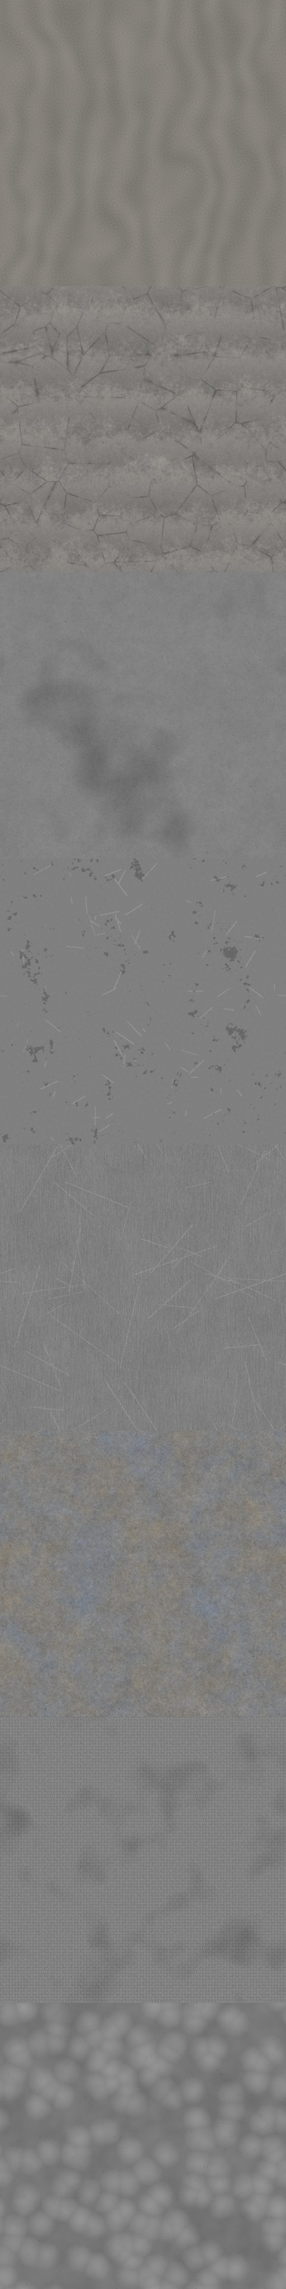
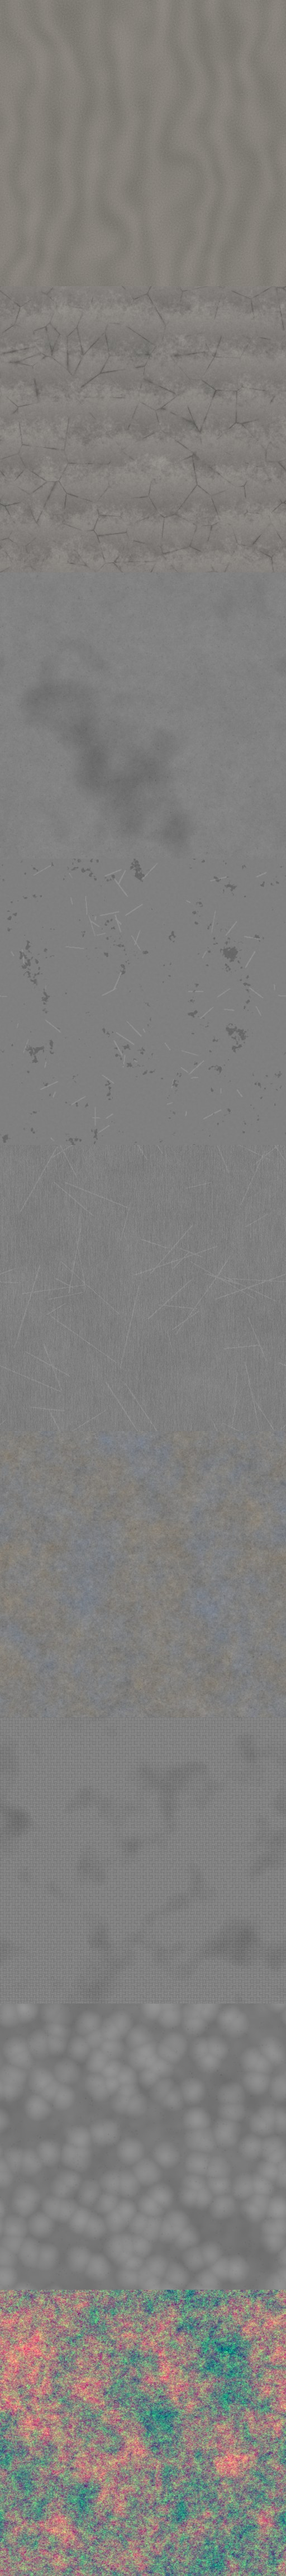
K73 v45: tekstuuri kvaliteedi valik ja uus taevas
- Seaded -> Texture quality: Auto / Low / Medium / High (materjalitekstuurid, normaalkaardid, tegelaste atlas 1024/2048/4096)
- taevas: pilvetekstuur (kiht 8) taeva tasandil, tuul, päikesepoolne valgustus ja isevari, hõbedane serv
- ümarad pehmed tähed

Claude-Session: https://claude.ai/code/session_01Bz4Tq66mTgXAon3ffbgQPE

Changed region(s): [[0.0, 0.8438, 1.0, 1.0], [0.0312, 0.7812, 0.0938, 0.8125], [0.6562, 0.1562, 0.6875, 0.1875]]

diff --git a/js/02_gfx.js b/js/02_gfx.js
@@ -192,12 +192,14 @@ void main(){
       vec3 w = pow(abs(nb), vec3(4.0)); w /= (w.x + w.y + w.z);
       vec3 al = texture(uMatA, vec3(p.zy, L)).rgb*w.x + texture(uMatA, vec3(p.xz, L)).rgb*w.y + texture(uMatA, vec3(p.xy, L)).rgb*w.z;
       base *= mix(vec3(1.0), al*2.0, kA*mf);
+      if (uMatOn > 1.5) {
       vec3 tX = texture(uMatN, vec3(p.zy, L)).xyz*2.0 - 1.0, tY = texture(uMatN, vec3(p.xz, L)).xyz*2.0 - 1.0, tZ = texture(uMatN, vec3(p.xy, L)).xyz*2.0 - 1.0;
       tX = vec3(tX.xy + nb.zy, abs(tX.z)*nb.x); tY = vec3(tY.xy + nb.xz, abs(tY.z)*nb.y); tZ = vec3(tZ.xy + nb.xy, abs(tZ.z)*nb.z);
       vec3 np = normalize(tX.zyx*w.x + tY.xzy*w.y + tZ.xyz*w.z);
       if (!wrl) np = rotTo(nb, normalize(vN), np);
       if (!gl_FrontFacing) np = -np;
       N = normalize(mix(N, np, kN*mf));
+      }
     }
   }
 #endif
@@ -360,6 +362,7 @@ precision highp float;
 in vec2 vP; out vec4 oC;
 uniform mat4 uInvVP; uniform vec3 uCam; uniform vec3 uSunDir; uniform vec3 uSunCol; uniform vec3 uZen; uniform vec3 uHor; uniform vec3 uFogCol;
 uniform float uNight; uniform float uExposure; uniform float uTime; uniform vec3 uPlDir;
+uniform mediump sampler2DArray uMatA; uniform float uCloudOn;
 vec3 tm(vec3 x){ x = max(x, 0.0); return clamp((x*(2.51*x+0.03))/(x*(2.43*x+0.59)+0.14), 0.0, 1.0); }
 float h31(vec3 p){ p=fract(p*0.3183099+0.1); p*=17.0; return fract(p.x*p.y*p.z*(p.x+p.y+p.z)); }
 float h21(vec2 p){ p=fract(p*vec2(123.34,456.21)); p+=dot(p,p+45.32); return fract(p.x*p.y); }
@@ -370,8 +373,9 @@ void main(){
   float h = d.y;
   vec3 col = mix(uHor, uZen, pow(clamp(h,0.0,1.0),0.55));
   if(uNight>0.01 && h>0.0){
-    vec3 g = floor(d*260.0); float s = h31(g);
-    float st = step(0.9972, s)*(0.55+0.45*sin(uTime*1.7+s*300.0));
+    vec3 q = d*260.0, g = floor(q); float s = h31(g);
+    vec3 sp = g + 0.5 + (vec3(h31(g+1.3), h31(g+2.7), h31(g+4.1)) - 0.5)*0.5;   // täht raku sees, ümar ja pehme
+    float st = step(0.9972, s)*smoothstep(0.6, 0.05, length(q - sp))*(0.6+0.4*sin(uTime*1.7+s*300.0))*1.6;
     vec3 sc = mix(vec3(0.75,0.82,1.0), vec3(1.0,0.85,0.7), h31(g+7.0));
     col += sc*st*uNight*smoothstep(0.0,0.2,h);
     vec3 g2 = floor(d*520.0); float s2 = h31(g2+3.0);
@@ -405,14 +409,30 @@ void main(){
     col = mix(col, mix(pcol, col, haze), rim);
   }
   float sd = max(dot(d,uSunDir),0.0);
-  // kõrged kiudpilved, mis triivivad aeglaselt; päikese poolt valgustatud servad
+  // pilvekiht: taeva tasandile projitseeritud pilvetekstuur (kiht 8), tuul, valgustus päikese poolt, isevari
   if(h>0.0){
-    vec2 cp = d.xz/(h+0.12)*0.55 + vec2(uTime*0.0035, uTime*0.0012);
-    float c = cn(cp*vec2(0.9,2.6)*1.4)*0.65 + cn(cp*vec2(1.8,5.0)*1.4 + 3.0)*0.35;
-    c = smoothstep(0.5, 0.82, c)*smoothstep(0.0, 0.18, h)*(1.0 - smoothstep(0.55, 0.95, h));
-    vec3 cc = mix(uHor*1.05, uZen*0.6 + uSunCol*0.55, 0.45) + uSunCol*pow(sd, 5.0)*0.9;
-    cc = mix(cc, vec3(0.035,0.03,0.045), uNight*0.85);
-    col = mix(col, cc, c*0.55);
+    vec2 cp = d.xz/(h+0.06)*0.11 + vec2(uTime*0.0016, uTime*0.0007);
+    float fade = smoothstep(0.0, 0.16, h);
+    float dens;
+    if (uCloudOn > 0.5) {
+      vec4 t1 = texture(uMatA, vec3(cp, 8.0));
+      vec4 t2 = texture(uMatA, vec3(cp*3.7 + vec2(0.31, 0.77) + vec2(uTime*0.004, 0.0), 8.0));
+      dens = t1.r*0.72 + t2.g*0.28;
+      vec2 toSun = normalize(uSunDir.xz + vec2(1e-4))*0.025;
+      float dS = texture(uMatA, vec3(cp + toSun, 8.0)).r*0.72 + t2.g*0.28;
+      float cov = 0.5;
+      float c = smoothstep(cov, cov + 0.3, dens)*fade;
+      float shade = clamp(1.0 - (dS - dens)*4.0, 0.35, 1.25);           // päikese poolt valgem, vastaskülg tumedam
+      vec3 lit = uSunCol*0.6*shade + uZen*0.55 + uHor*0.3;
+      lit += uSunCol*pow(sd, 6.0)*(1.0 - smoothstep(cov, cov + 0.35, dens))*1.4;   // hõbedane serv päikese ees
+      lit = mix(lit, vec3(0.03, 0.026, 0.04), uNight*0.88);
+      col = mix(col, lit, c*0.85);
+    } else {
+      dens = cn(cp*6.0)*0.65 + cn(cp*14.0 + 3.0)*0.35;
+      float c = smoothstep(0.55, 0.85, dens)*fade;
+      vec3 lit = mix(uSunCol*0.6 + uZen*0.55, vec3(0.03, 0.026, 0.04), uNight*0.88);
+      col = mix(col, lit, c*0.7);
+    }
   }
   col += uSunCol*(smoothstep(0.9993,0.9996,sd)*7.0 + pow(sd,260.0)*0.9 + pow(sd,24.0)*0.28 + pow(sd,4.0)*0.10);
   float hz = exp(-max(h,0.0)*9.0);
@@ -951,7 +971,7 @@ void main(){
     gl.activeTexture(gl.TEXTURE0); return t;
   }
   function initMatTex() {
-    S.matOn = true;
+    S.matOn = 2;
     // ajutised neutraalsed (enne pildi laadimist): hall albeedo, tasane normaal
     arrTex(6, [128, 128, 128, 255]); arrTex(7, [128, 128, 255, 255]);
     if (typeof MAT_TEX === 'undefined') return;
@@ -1161,7 +1181,7 @@ void main(){
     gl.uniform1i(pr.u('uShadow'), 0);
     gl.uniform4fv(pr.u('uLP'), lightPos); gl.uniform4fv(pr.u('uLC'), lightCol);
     gl.uniform1i(pr.u('uNL'), Math.min(12, lights.length));
-    gl.uniform1f(pr.u('uMatOn'), S.matOn && matA ? 1 : 0); gl.uniform1i(pr.u('uMatA'), 6); gl.uniform1i(pr.u('uMatN'), 7);
+    gl.uniform1f(pr.u('uMatOn'), matA ? (+S.matOn || 0) : 0); gl.uniform1i(pr.u('uMatA'), 6); gl.uniform1i(pr.u('uMatN'), 7);
   }
   function pickLights() {
     for (const l of lights) { l.score = Math.max(0, Math.hypot(l.x - cam.pos.x, l.y - cam.pos.y, l.z - cam.pos.z) - l.r) - l.i * 2; }
@@ -1248,6 +1268,7 @@ void main(){
     gl.uniform3fv(progSky.u('uFogCol'), env.fogCol); gl.uniform1f(progSky.u('uNight'), env.night);
     gl.uniform1f(progSky.u('uExposure'), env.exposure); gl.uniform1f(progSky.u('uTime'), env.time);
     gl.uniform3fv(progSky.u('uPlDir'), env.planetDir);
+    gl.uniform1i(progSky.u('uMatA'), 6); gl.uniform1f(progSky.u('uCloudOn'), matA ? 1 : 0);
     gl.bindVertexArray(skyVao); gl.drawArrays(gl.TRIANGLES, 0, 3);
     gl.enable(gl.DEPTH_TEST); gl.depthMask(true);
     gl.activeTexture(gl.TEXTURE0);

diff --git a/js/18_ui.js b/js/18_ui.js
@@ -743,12 +743,13 @@ const UI = (() => {
         <label>Resolution</label><div class="seg">${[[null, 'Auto'], [0.5, '50%'], [0.75, '75%'], [1, '100%'], [1.5, '150%'], [2, '200%']].map(([v, n]) => `<button data-act="gres:${v}" class="${gf.res === v ? 'on' : ''}">${n}</button>`).join('')}</div>
         <label for="sView">View distance</label><div class="rowv"><input type="range" id="sView" min="300" max="1400" step="50" value="${gf.view || 1000}"><span id="sViewV">${gf.view || 1000} m</span></div>
         <label for="sFov">Field of view</label><div class="rowv"><input type="range" id="sFov" min="65" max="110" step="1" value="${gf.fov || 88}"><span id="sFovV">${gf.fov || 88}°</span></div>
+        <label>Texture quality</label><div class="seg">${[[null, 'Auto'], ['low', 'Low'], ['mid', 'Medium'], ['high', 'High']].map(([v, n]) => `<button data-act="gtex:${v}" class="${(gf.tex || null) === v ? 'on' : ''}">${n}</button>`).join('')}</div>
         <label>Shadows</label><div class="seg">${[[null, 'Auto'], ['off', 'Off'], ['mid', 'Medium'], ['high', 'High']].map(([v, n]) => `<button data-act="gsh:${v}" class="${gf.shadows === v ? 'on' : ''}">${n}</button>`).join('')}</div>
         <label>Effects</label><div class="seg">${[[null, 'Auto'], [0.5, 'Low'], [0.8, 'Medium'], [1, 'High']].map(([v, n]) => `<button data-act="gfx:${v}" class="${gf.fx === v ? 'on' : ''}">${n}</button>`).join('')}</div>
         <label>Glow and smoothing</label><div class="seg">${[[null, 'Auto'], [false, 'Off'], [true, 'On']].map(([v, n]) => `<button data-act="gpo:${v}" class="${gf.post === v ? 'on' : ''}">${n}</button>`).join('')}</div>
         <label>Show FPS</label><div class="seg"><button data-act="gfps:0" class="${!gf.fps ? 'on' : ''}">No</button><button data-act="gfps:1" class="${gf.fps ? 'on' : ''}">Yes</button></div>
         <label>Fullscreen</label><div>${btn('fs', 'Toggle')}</div></div>
-        <p class="note" style="margin-top:14px">Rendering at ${Game.pixels[0]}×${Game.pixels[1]} pixels. If the game stutters, lower the resolution or view distance first, then shadows. "Auto" follows the graphics preset.</p>`;
+        <p class="note" style="margin-top:14px">Rendering at ${Game.pixels[0]}×${Game.pixels[1]} pixels. If the game stutters, lower the resolution or view distance first, then shadows and texture quality. "Auto" follows the graphics preset.</p>`;
     } else {
       h = G.log.slice().reverse().map((l) => `<div class="row"><div class="grow"><div class="s num" style="font-size:11px">P${l.day} · ${l.t}</div><div>${esc(l.text)}</div></div></div>`).join('') || '<div class="empty">The radio is silent.</div>';
     }
@@ -775,6 +776,7 @@ const UI = (() => {
       gsh: (v) => { Input.settings.gfx.shadows = ((v) => (v === 'null' ? null : v === 'true' ? true : v === 'false' ? false : isNaN(+v) ? v : +v))(v); Input.saveSettings(); Game.applyGfx(); renderPanel(); },
       gfx: (v) => { Input.settings.gfx.fx = ((v) => (v === 'null' ? null : v === 'true' ? true : v === 'false' ? false : isNaN(+v) ? v : +v))(v); Input.saveSettings(); Game.applyGfx(); renderPanel(); },
       gpo: (v) => { Input.settings.gfx.post = ((v) => (v === 'null' ? null : v === 'true' ? true : v === 'false' ? false : isNaN(+v) ? v : +v))(v); Input.saveSettings(); Game.applyGfx(); renderPanel(); },
+      gtex: (v) => { Input.settings.gfx.tex = v === 'null' ? null : v; Input.saveSettings(); Game.applyGfx(); renderPanel(); toast(v === 'low' ? 'Textures: low (fastest)' : v === 'mid' ? 'Textures: medium' : v === 'high' ? 'Textures: high (sharpest)' : 'Textures: follow the graphics preset'); },
       gfps: (v) => { Input.settings.gfx.fps = v === '1'; Input.saveSettings(); renderPanel(); },
       fs: () => { try { if (document.fullscreenElement) document.exitFullscreen(); else document.documentElement.requestFullscreen().catch(() => toast('Fullscreen isn\'t allowed here')); } catch (e) { toast('Fullscreen isn\'t allowed here'); } },
     });

diff --git a/js/03b_chars.js b/js/03b_chars.js
@@ -5,8 +5,9 @@
 const Chars = (() => {
 
   // 4096 atlas: nõrgemal seadmel (väike MAX_TEXTURE_SIZE / vähe mälu) vähendame enne üleslaadimist 2048-le
+  let texLim = 4096;   // tekstuuri kvaliteet: low 1024, mid 2048, high 4096
   function fitTex(im) {
-    let lim = 4096;
+    let lim = texLim;
     try { lim = Math.min(lim, GFX.gl.getParameter(GFX.gl.MAX_TEXTURE_SIZE)); } catch (e) {}
     const mem = navigator.deviceMemory || 8;
     if (mem <= 3 || /Android.*Mobile|iPhone/.test(navigator.userAgent) && mem < 6) lim = Math.min(lim, 2048);
@@ -117,7 +118,7 @@ const Chars = (() => {
       }
       types[name] = T;
       if (name !== 'soldier') try { T.gear = buildGear(T); } catch (e) { console.error(e); T.gear = []; }
-      const im = new Image(); im.onload = () => { try { T.alb = GFX.texFromImage(fitTex(im)); } catch (e) { console.error(e); } }; im.onerror = () => console.error('char tex fail', name); im.src = d.tex;
+      const im = new Image(); im.onload = () => { try { T.albImg = im; T.alb = GFX.texFromImage(fitTex(im)); } catch (e) { console.error(e); } }; im.onerror = () => console.error('char tex fail', name); im.src = d.tex;
       const mk = new Image(); mk.onload = () => { T.mask = GFX.texFromImage(mk, { mask: true }); }; mk.src = d.mask;
     }
     ready = true;
@@ -659,5 +660,12 @@ const Chars = (() => {
     }
     return t;
   }
-  return { init, draw, drawFP, portrait, makeTints, types, clips, get ready() { return ready; }, REG };
+  // tekstuuri kvaliteedi muutmine: tegelaste albeedo laaditakse uue suurusega uuesti üles
+  function setTexQuality(q) {
+    const lim = q === 'low' ? 1024 : q === 'mid' ? 2048 : 4096;
+    if (lim === texLim) return;
+    texLim = lim;
+    for (const T of Object.values(types)) if (T.albImg) { try { const old = T.alb; T.alb = GFX.texFromImage(fitTex(T.albImg)); if (old) GFX.gl.deleteTexture(old); } catch (e) { console.error(e); } }
+  }
+  return { init, draw, drawFP, portrait, makeTints, setTexQuality, types, clips, get ready() { return ready; }, REG };
 })();

diff --git a/js/19_game.js b/js/19_game.js
@@ -187,7 +187,10 @@ const Game = (() => {
     GFX.setTerrain(null, false); World.setTerrainShadow(sh === 'high');
     FX.setQuality(g.fx == null ? q.fx : g.fx);
     GFX.S.viewMul = (g.view || 1000) / 1000;
-    GFX.S.matOn = qKey !== 'low';   // materjalitekstuurid (madalal kvaliteedil välja)
+    // tekstuuri kvaliteet: madal = materjalitekstuurid väljas + tegelased 1024, keskmine = ainult värvitekstuur + 2048, kõrge = ka normaalkaardid + 4096
+    const tq = g.tex || (qKey === 'low' ? 'low' : qKey === 'mid' ? 'mid' : 'high');
+    GFX.S.matOn = tq === 'low' ? 0 : tq === 'mid' ? 1 : 2;
+    if (Chars.setTexQuality) Chars.setTexQuality(tq);
     resize();
   }
   function resize() {

diff --git a/sw.js b/sw.js
@@ -1,6 +1,6 @@
 // K73 teenustöötaja: kõik mängu failid (kood, mudelid, tekstuurid) vahemällu -> töötab ka ilma internetita.
 // Iga uus versioon saab uue vahemälu nime (ehitusskript lisab failide räsi), vana kustutatakse.
-const CACHE = 'k73-v44-fa62572a';
+const CACHE = 'k73-v45-1048a842';
 const FILES = [
 "./",
 "./css/k73.css",

diff --git a/js/00a_version.js b/js/00a_version.js
@@ -1,2 +1,2 @@
 // Mängu versioon (näidatakse peaekraani nurgas). Uuenda iga väljalaskega.
-const K73_VERSION = 'v44';
+const K73_VERSION = 'v45';
